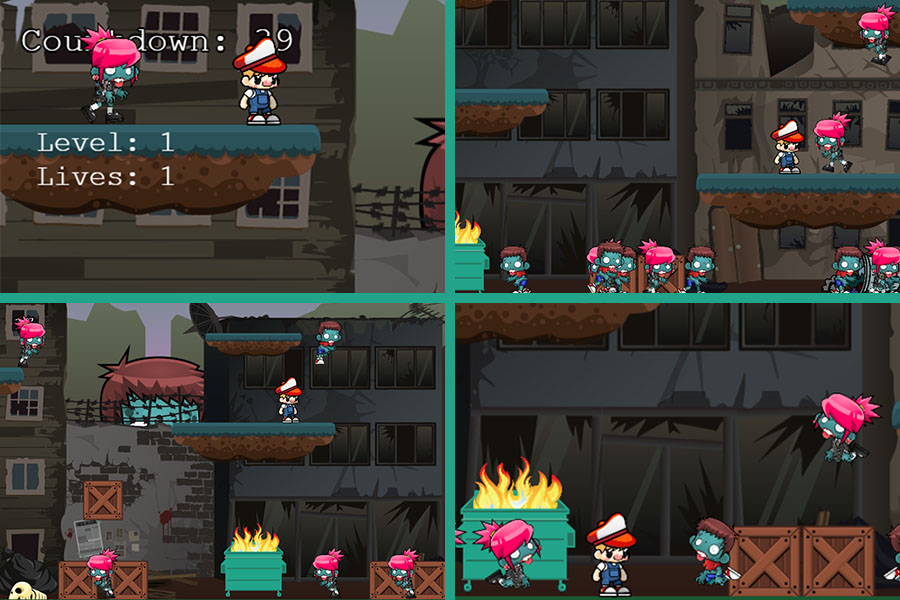
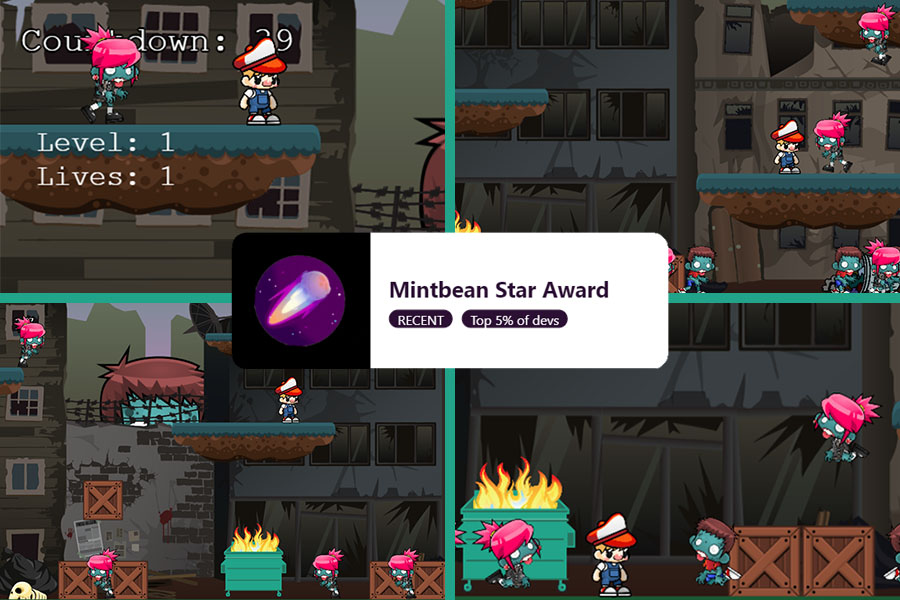
adds mintbean star information

Changed region(s): [[0.2489, 0.36, 0.7467, 0.63]]

diff --git a/index.html b/index.html
@@ -55,6 +55,9 @@
                             <h1 class="mb-5">Zombie Dash</h1>
                             <h2>How Long Will You Survive?</h2>
                             <a class="btn btn-success btn-lg play-button" href="https://game.zombie-dash.com/">Play</a>
+                            <div>
+                                <img class="img-fluid rounded mintbean-star" src="assets/img/mintbean_star.png"/>
+                            </div>
                         </div>
                     </div>
                 </div>
@@ -70,7 +73,6 @@
                             <h3>Run from Zombies</h3>
                             <p class="lead mb-0"><i class="fas fa-caret-square-up"></i> = Jump</p>
                             <p class="lead mb-0"><i class="fas fa-caret-square-left"></i> = Left&nbsp;&nbsp;&nbsp;&nbsp;&nbsp;<i class="fas fa-caret-square-right"></i> = Right</p>
-
                         </div>
                     </div>
                     <div class="col-lg-3">
@@ -109,6 +111,8 @@
                     <div class="col-lg-6 order-lg-1 my-auto showcase-text">
                         <h2>Mintbean Hackathon</h2>
                         <p class="lead mb-0">Zombie Dash was built by a team of 3 developers for the 7-day <a href="https://mintbean.io/" target="_blank" rel="noreferrer">Mintbean</a> Hackathon in August 2021. The challenge was to build a 2-D game, making the <a href="https://phaser.io/" target="_blank" rel="noreferrer">Phaser JS</a> framework the perfect choice.</p>
+                        <br />
+                        <p class="lead mb-0">Zombie Dash received the Mintbean Star Award, an honor given to only 5% of developers. Recipients are listed individually at <a href="https://hire.mintbean.io/" target="_blank" rel="noreferrer">hire.mintbean.io</a></p>
                     </div>
                 </div>
             </div>

diff --git a/css/styles.css b/css/styles.css
@@ -11375,3 +11375,7 @@ footer.footer {
 .fontawesome {
   padding: 30px;
 }
+
+.mintbean-star {
+  margin-top: 50px;
+}
